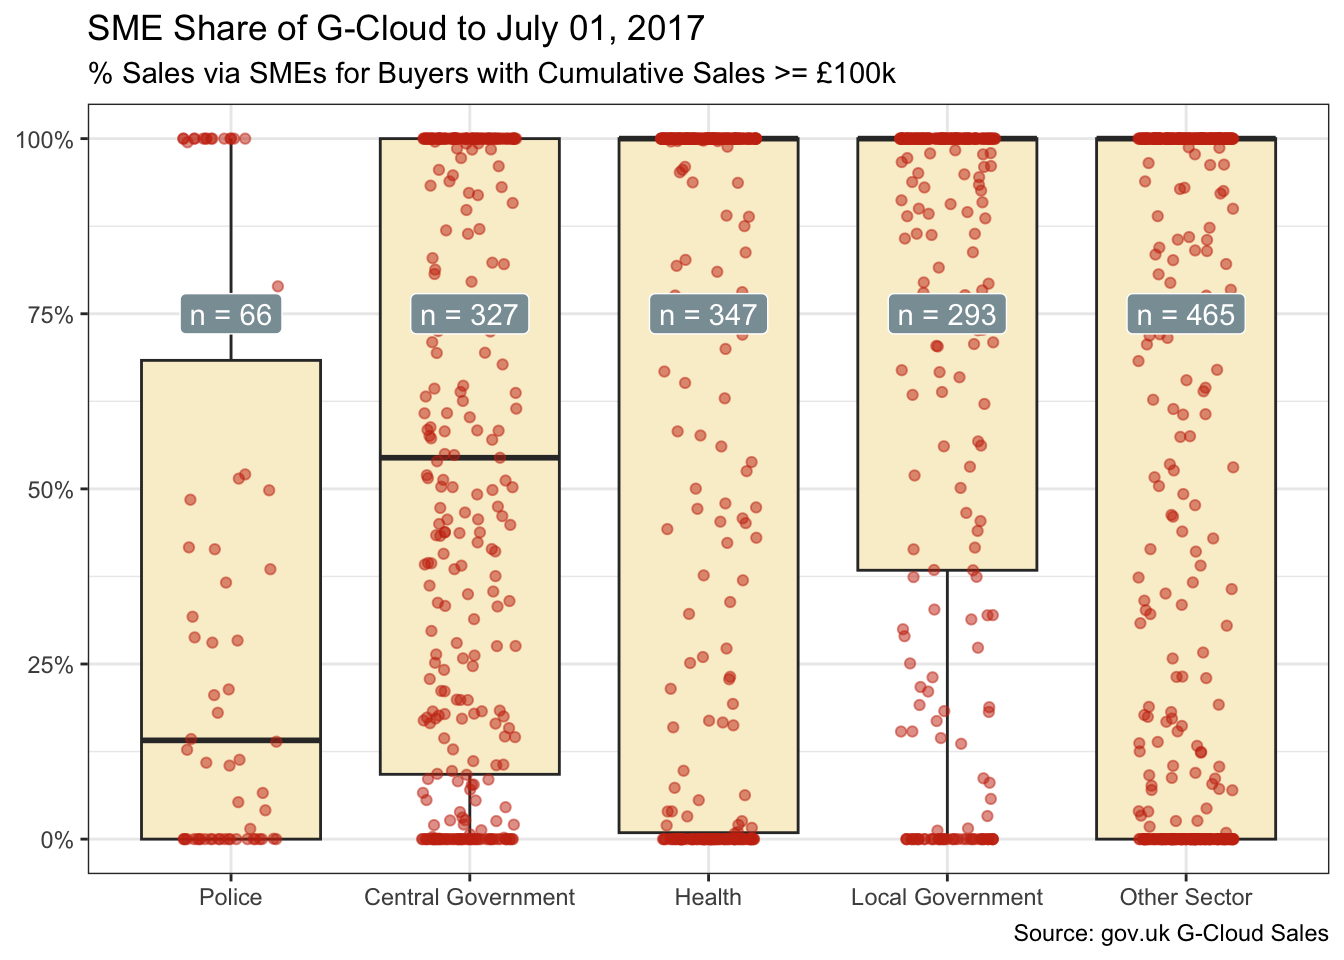
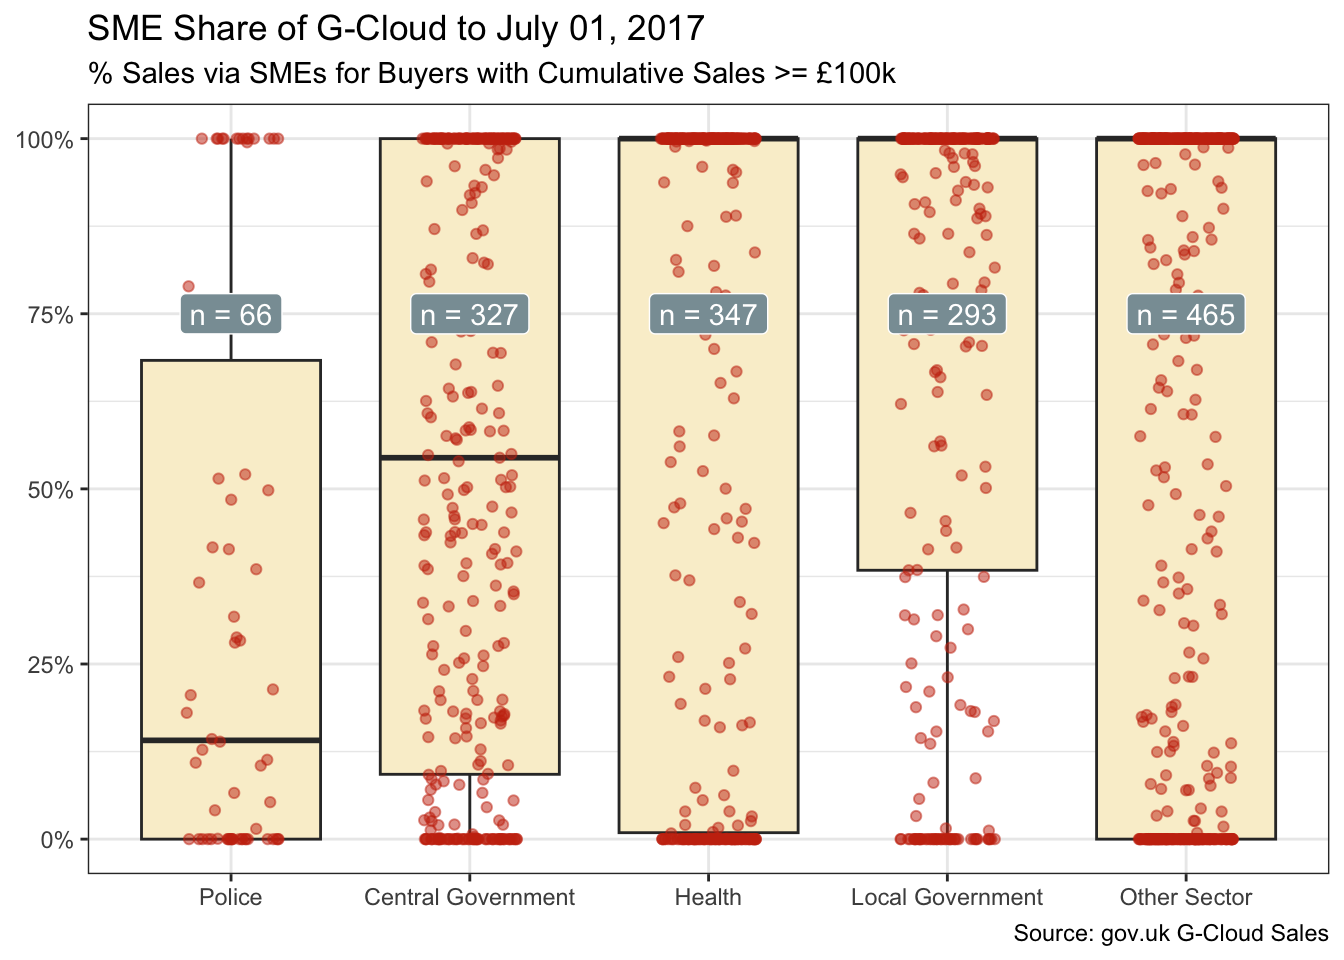
Use new .by argument in Jitter

diff --git a/_site/project/jitter/index.html b/_site/project/jitter/index.html
@@ -238,7 +238,7 @@ div.csl-indent {
     <div>
     <div class="quarto-title-meta-heading">Modified</div>
     <div class="quarto-title-meta-contents">
-      <p class="date-modified">December 23, 2022</p>
+      <p class="date-modified">December 25, 2022</p>
     </div>
   </div>
     
@@ -330,19 +330,17 @@ div.csl-indent {
 <span>    <span class="va">sector</span> <span class="op"><a href="https://rdrr.io/r/base/match.html">%in%</a></span> <span class="fu"><a href="https://rdrr.io/r/base/c.html">c</a></span><span class="op">(</span><span class="st">"Central Government"</span>, <span class="st">"Local Government"</span>, </span>
 <span>                  <span class="st">"Police"</span>, <span class="st">"Health"</span><span class="op">)</span>, <span class="va">sector</span>, <span class="st">"Other Sector"</span><span class="op">)</span></span>
 <span>    <span class="op">)</span> <span class="op">|&gt;</span></span>
-<span>  <span class="fu"><a href="https://dplyr.tidyverse.org/reference/group_by.html">group_by</a></span><span class="op">(</span><span class="va">customer_name</span>, <span class="va">sector</span><span class="op">)</span> <span class="op">|&gt;</span></span>
 <span>  <span class="fu"><a href="https://dplyr.tidyverse.org/reference/summarise.html">summarise</a></span><span class="op">(</span></span>
 <span>    evidenced_spend <span class="op">=</span> <span class="fu"><a href="https://rdrr.io/r/base/sum.html">sum</a></span><span class="op">(</span><span class="va">evidenced_spend</span>, na.rm <span class="op">=</span> <span class="cn">TRUE</span><span class="op">)</span>,</span>
 <span>    sme_spend <span class="op">=</span> <span class="fu"><a href="https://rdrr.io/r/base/sum.html">sum</a></span><span class="op">(</span><span class="va">sme_spend</span>, na.rm <span class="op">=</span> <span class="cn">TRUE</span><span class="op">)</span>,</span>
-<span>    pct <span class="op">=</span> <span class="va">sme_spend</span> <span class="op">/</span> <span class="va">evidenced_spend</span></span>
+<span>    pct <span class="op">=</span> <span class="va">sme_spend</span> <span class="op">/</span> <span class="va">evidenced_spend</span>,</span>
+<span>    .by <span class="op">=</span> <span class="fu"><a href="https://rdrr.io/r/base/c.html">c</a></span><span class="op">(</span><span class="va">customer_name</span>, <span class="va">sector</span><span class="op">)</span></span>
 <span>  <span class="op">)</span> <span class="op">|&gt;</span></span>
 <span>  <span class="fu"><a href="https://dplyr.tidyverse.org/reference/filter.html">filter</a></span><span class="op">(</span><span class="va">evidenced_spend</span> <span class="op">&gt;=</span> <span class="fl">100000</span><span class="op">)</span> <span class="op">|&gt;</span></span>
-<span>  <span class="fu"><a href="https://dplyr.tidyverse.org/reference/group_by.html">group_by</a></span><span class="op">(</span><span class="va">sector</span><span class="op">)</span> <span class="op">|&gt;</span></span>
-<span>  <span class="fu"><a href="https://dplyr.tidyverse.org/reference/mutate.html">mutate</a></span><span class="op">(</span>median_pct <span class="op">=</span> <span class="fu"><a href="https://rdrr.io/r/stats/median.html">median</a></span><span class="op">(</span><span class="va">pct</span><span class="op">)</span><span class="op">)</span> <span class="op">|&gt;</span></span>
-<span>  <span class="fu"><a href="https://dplyr.tidyverse.org/reference/group_by.html">ungroup</a></span><span class="op">(</span><span class="op">)</span> <span class="op">|&gt;</span></span>
+<span>  <span class="fu"><a href="https://dplyr.tidyverse.org/reference/mutate.html">mutate</a></span><span class="op">(</span>median_pct <span class="op">=</span> <span class="fu"><a href="https://rdrr.io/r/stats/median.html">median</a></span><span class="op">(</span><span class="va">pct</span><span class="op">)</span>, .by <span class="op">=</span> <span class="va">sector</span><span class="op">)</span> <span class="op">|&gt;</span></span>
 <span>  <span class="fu"><a href="https://dplyr.tidyverse.org/reference/mutate.html">mutate</a></span><span class="op">(</span>sector <span class="op">=</span> <span class="fu"><a href="https://forcats.tidyverse.org/reference/fct_reorder.html">fct_reorder</a></span><span class="op">(</span><span class="va">sector</span>, <span class="va">median_pct</span><span class="op">)</span><span class="op">)</span></span>
 <span></span>
-<span><span class="va">n_df</span> <span class="op">&lt;-</span> <span class="va">sector_df</span> <span class="op">|&gt;</span>  <span class="fu"><a href="https://dplyr.tidyverse.org/reference/group_by.html">group_by</a></span><span class="op">(</span><span class="va">sector</span><span class="op">)</span> <span class="op">|&gt;</span>  <span class="fu"><a href="https://dplyr.tidyverse.org/reference/summarise.html">summarise</a></span><span class="op">(</span>n <span class="op">=</span> <span class="fu"><a href="https://dplyr.tidyverse.org/reference/context.html">n</a></span><span class="op">(</span><span class="op">)</span><span class="op">)</span></span>
+<span><span class="va">n_df</span> <span class="op">&lt;-</span> <span class="va">sector_df</span> <span class="op">|&gt;</span> <span class="fu"><a href="https://dplyr.tidyverse.org/reference/summarise.html">summarise</a></span><span class="op">(</span>n <span class="op">=</span> <span class="fu"><a href="https://dplyr.tidyverse.org/reference/context.html">n</a></span><span class="op">(</span><span class="op">)</span>, .by <span class="op">=</span> <span class="va">sector</span><span class="op">)</span></span>
 <span></span>
 <span><span class="va">sector_df</span> <span class="op">|&gt;</span> </span>
 <span>  <span class="fu"><a href="https://ggplot2.tidyverse.org/reference/ggplot.html">ggplot</a></span><span class="op">(</span><span class="fu"><a href="https://ggplot2.tidyverse.org/reference/aes.html">aes</a></span><span class="op">(</span><span class="va">sector</span>, <span class="va">pct</span><span class="op">)</span><span class="op">)</span> <span class="op">+</span></span>
@@ -393,7 +391,7 @@ div.csl-indent {
 <tbody>
 <tr class="odd">
 <td style="text-align: left;">base</td>
-<td style="text-align: left;">as.Date[1]; as.numeric[1]; c[1]; is.na[1]; library[6]; max[1]; sum[4]</td>
+<td style="text-align: left;">as.Date[1]; as.numeric[1]; c[2]; is.na[1]; library[6]; max[1]; sum[4]</td>
 </tr>
 <tr class="even">
 <td style="text-align: left;">clock</td>
@@ -401,7 +399,7 @@ div.csl-indent {
 </tr>
 <tr class="odd">
 <td style="text-align: left;">dplyr</td>
-<td style="text-align: left;">filter[1]; arrange[1]; group_by[3]; if_else[4]; mutate[4]; n[1]; pull[1]; summarise[4]; ungroup[1]</td>
+<td style="text-align: left;">filter[1]; arrange[1]; if_else[4]; mutate[4]; n[1]; pull[1]; summarise[4]</td>
 </tr>
 <tr class="even">
 <td style="text-align: left;">forcats</td>

diff --git a/_site/project/un/index.html b/_site/project/un/index.html
@@ -240,7 +240,7 @@ div.csl-indent {
     <div>
     <div class="quarto-title-meta-heading">Modified</div>
     <div class="quarto-title-meta-contents">
-      <p class="date-modified">December 23, 2022</p>
+      <p class="date-modified">December 24, 2022</p>
     </div>
   </div>
     
